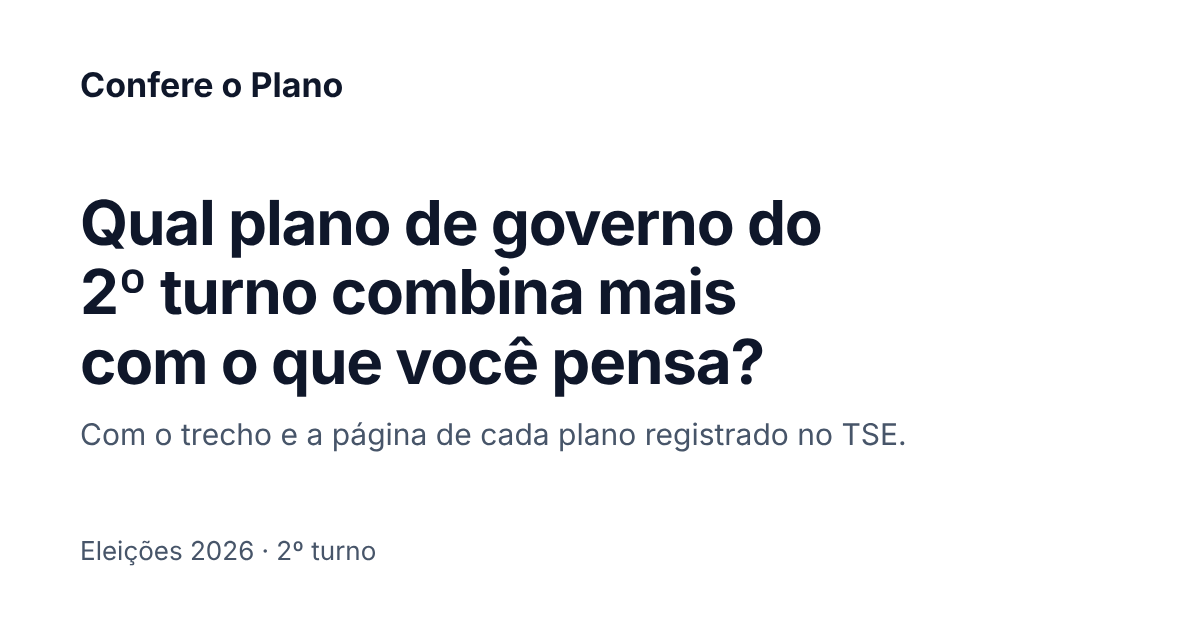
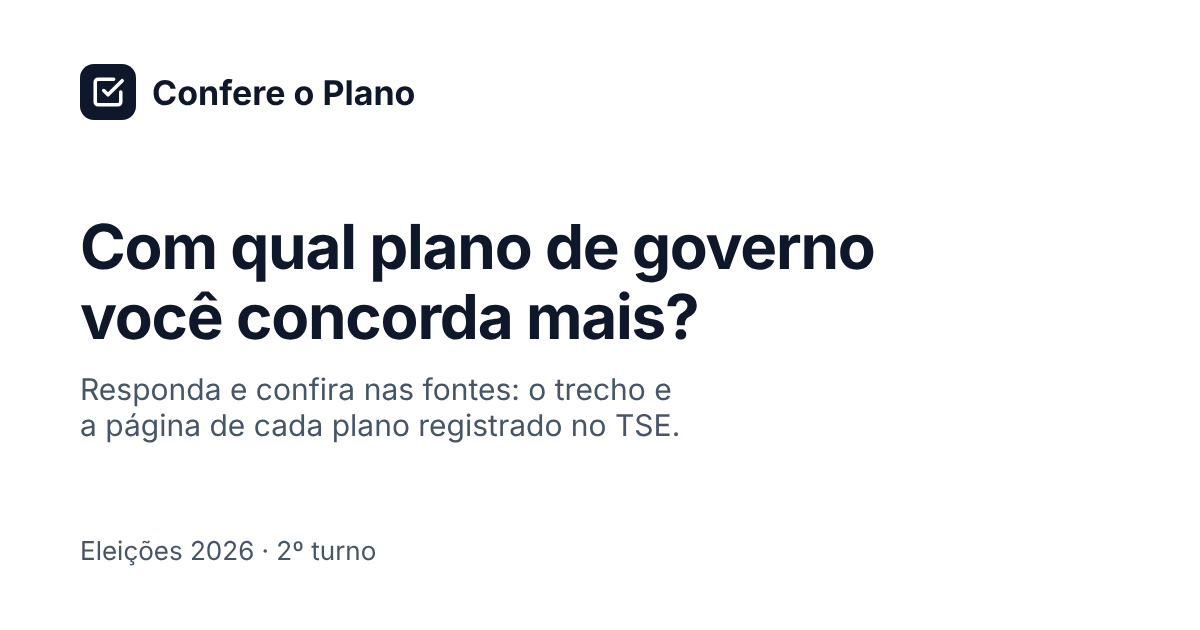
Mensagem personalizada ao compartilhar e nova chamada na imagem de prévia (#2)
- Compartilhar envia uma mensagem em primeira pessoa com os dois percentuais ("minhas respostas ficaram mais
  próximas do plano de X (63%) do que do de Y (55%)...") e o link; montada no navegador, editável antes de
  enviar. Sem menu de compartilhar do sistema, copia mensagem + link.
- Imagem de prévia e descrição: "Com qual plano de governo você concorda mais?", com a marca do site.
- Teste de unidade da mensagem; e2e confere que ela traz os mesmos percentuais da tela.

Changed region(s): [[0.0617, 0.3016, 0.74, 0.7238], [0.0617, 0.0905, 0.3392, 0.2111]]

diff --git a/e2e/aleatorio.spec.ts b/e2e/aleatorio.spec.ts
@@ -109,6 +109,7 @@ for (let n = 1; n <= EXECUCOES; n++) {
       const respondidas = perguntas.filter((p) => respostas[p.id] !== null);
       const puladas = perguntas.length - respondidas.length;
 
+      const percentuais: Record<string, string> = {};
       if (respondidas.length === 0) {
         await expect(page.getByRole('heading', { name: 'Nenhuma afirmação respondida' })).toBeVisible();
       } else {
@@ -117,7 +118,8 @@ for (let n = 1; n <= EXECUCOES; n++) {
           const media =
             respondidas.reduce((s, p) => s + 1 - Math.abs(respostas[p.id]! - p.posicoes[plano].valor) / 4, 0) /
             respondidas.length;
-          await expect(page.locator(`[data-geral="${plano}"] [data-pct]`)).toHaveText(`${Math.round(media * 100)}%`);
+          percentuais[plano] = `${Math.round(media * 100)}%`;
+          await expect(page.locator(`[data-geral="${plano}"] [data-pct]`)).toHaveText(percentuais[plano]);
         }
 
         const plural = (q: number, um: string, varios: string) => `${q} ${q === 1 ? um : varios}`;
@@ -130,13 +132,16 @@ for (let n = 1; n <= EXECUCOES; n++) {
         await expect(page.locator('article')).toHaveCount(respondidas.length);
       }
 
-      // "Compartilhar" gera o link com as respostas (forçado pelo caminho da área de transferência).
+      // "Compartilhar" copia a mensagem com os percentuais e o link com as respostas (caminho da área de
+      // transferência, já que o teste desliga o menu de compartilhar do sistema).
       if (respondidas.length > 0) {
         await page.getByRole('button', { name: 'Compartilhar resultado' }).click();
-        await expect(page.getByRole('button', { name: 'Link copiado!' })).toBeVisible();
-        const link = await page.evaluate(() => navigator.clipboard.readText());
-        log.push(`Link compartilhado: ${link}`);
-        if (!link.endsWith(`/resultado/#r=${esperado}`)) await falhar('O link compartilhado não contém as respostas dadas.');
+        await expect(page.getByRole('button', { name: 'Mensagem copiada!' })).toBeVisible();
+        const mensagem = await page.evaluate(() => navigator.clipboard.readText());
+        log.push(`Mensagem compartilhada: ${mensagem}`);
+        if (!mensagem.endsWith(`/resultado/#r=${esperado}`)) await falhar('O link compartilhado não contém as respostas dadas.');
+        if (!mensagem.includes(`Lula (${percentuais.lula})`) || !mensagem.includes(`Flávio Bolsonaro (${percentuais.flavio})`))
+          await falhar('A mensagem compartilhada não traz os mesmos percentuais da tela.');
       }
 
       // Contagem de acessos: o resultado de quem acabou de responder conta como "concluido",

diff --git a/src/components/Resultado.svelte b/src/components/Resultado.svelte
@@ -1,5 +1,6 @@
 <script lang="ts">
   import { onMount } from 'svelte';
+  import { textoCompartilhar } from '../lib/compartilhar';
   import { CHAVE_RESULTADO, decodificar } from '../lib/encode';
   import { NOME_PLANO, POSICAO_PLANO, opcao, pct } from '../lib/rotulos';
   import { PLANOS, type PlanoId } from '../lib/planos';
@@ -89,11 +90,14 @@
   const temasComPergunta = $derived(temas.filter((t) => resultado?.porTema[t.id]));
   const temasSemPergunta = $derived(temas.filter((t) => !perguntas.some((p) => p.tema === t.id)));
 
+  // Vai uma mensagem em primeira pessoa com os percentuais, montada aqui no navegador, mais o link do resultado.
   async function compartilhar() {
+    if (!resultado?.geral) return;
     const url = `${location.origin}${base}resultado/#r=${codigoAtual}`;
+    const text = textoCompartilhar(resultado.geral);
     try {
-      if (navigator.share) return await navigator.share({ title: 'Meu resultado no Confere o Plano', url });
-      await navigator.clipboard.writeText(url);
+      if (navigator.share) return await navigator.share({ title: 'Meu resultado no Confere o Plano', text, url });
+      await navigator.clipboard.writeText(`${text}\n\n${url}`);
       copiado = true;
       setTimeout(() => (copiado = false), 2500);
     } catch {}
@@ -171,14 +175,15 @@
       </div>
       <div class="flex flex-wrap gap-3">
         <button type="button" class="botao-primario" onclick={compartilhar}>
-          {copiado ? 'Link copiado!' : 'Compartilhar resultado'}
+          {copiado ? 'Mensagem copiada!' : 'Compartilhar resultado'}
         </button>
         <a class="botao-secundario" href="{base}quiz/">
           Refazer
         </a>
       </div>
       <p class="text-xs text-slate-600 dark:text-slate-400">
-        O link compartilhado contém as suas respostas: quem abrir verá como você respondeu cada afirmação.
+        Compartilhar envia uma mensagem com os seus percentuais e um link que contém as suas respostas: quem abrir verá
+        como você respondeu cada afirmação. Você pode editar a mensagem antes de enviar.
       </p>
     </section>
 

diff --git a/src/lib/compartilhar.ts b/src/lib/compartilhar.ts
@@ -1,0 +1,21 @@
+import { NOME_PLANO, pct } from './rotulos';
+import { EMPATE, type Alinhamento } from './score';
+
+/**
+ * Mensagem que acompanha o link ao compartilhar o resultado. Fica em primeira pessoa porque é a pessoa falando
+ * do próprio resultado (ela vê e pode editar antes de enviar); é montada no navegador e não passa por servidor.
+ */
+export function textoCompartilhar(geral: Alinhamento): string {
+  const { flavio, lula } = geral;
+  const resultado =
+    Math.abs(lula - flavio) < EMPATE
+      ? `minhas respostas ficaram praticamente empatadas entre os planos de ${NOME_PLANO.flavio.nome} (${pct(flavio)}) e de ${NOME_PLANO.lula.nome} (${pct(lula)})`
+      : (() => {
+          const [mais, menos] = lula > flavio ? (['lula', 'flavio'] as const) : (['flavio', 'lula'] as const);
+          return `minhas respostas ficaram mais próximas do plano de ${NOME_PLANO[mais].nome} (${pct(geral[mais])}) do que do de ${NOME_PLANO[menos].nome} (${pct(geral[menos])})`;
+        })();
+  return (
+    `Fiz o Confere o Plano: ${resultado}. ` +
+    'Cada resposta vem com o trecho e a página dos planos registrados no TSE. Com qual você concorda mais?'
+  );
+}

diff --git a/src/lib/compartilhar.test.ts b/src/lib/compartilhar.test.ts
@@ -1,0 +1,20 @@
+import { describe, expect, it } from 'vitest';
+import { textoCompartilhar } from './compartilhar';
+
+describe('textoCompartilhar', () => {
+  it('cita primeiro o plano mais próximo, com os dois percentuais', () => {
+    expect(textoCompartilhar({ lula: 0.63, flavio: 0.55 })).toBe(
+      'Fiz o Confere o Plano: minhas respostas ficaram mais próximas do plano de Lula (63%) do que do de Flávio Bolsonaro (55%). ' +
+        'Cada resposta vem com o trecho e a página dos planos registrados no TSE. Com qual você concorda mais?',
+    );
+    expect(textoCompartilhar({ lula: 0.4, flavio: 0.8 })).toContain(
+      'mais próximas do plano de Flávio Bolsonaro (80%) do que do de Lula (40%)',
+    );
+  });
+
+  it('usa "praticamente empatadas" quando a diferença é menor que o limite de empate', () => {
+    expect(textoCompartilhar({ lula: 0.6, flavio: 0.61 })).toContain(
+      'praticamente empatadas entre os planos de Flávio Bolsonaro (61%) e de Lula (60%)',
+    );
+  });
+});
